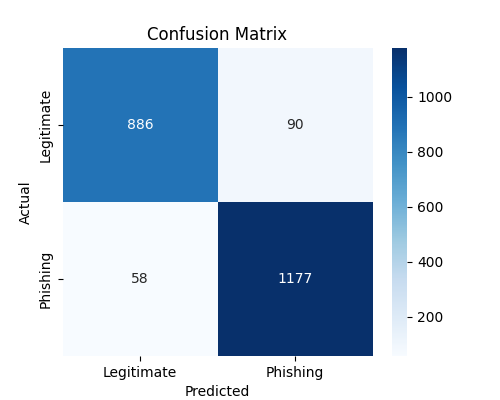
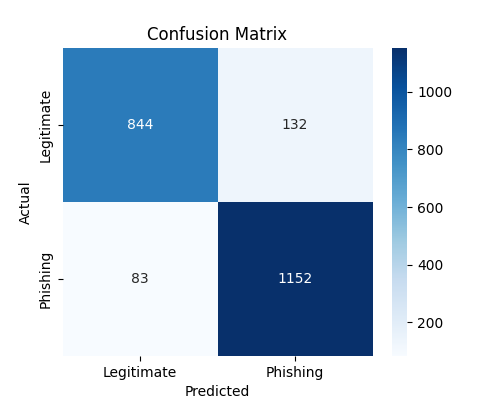
Final working phishing URL detector with Streamlit UI and confidence score

diff --git a/src/detector.py b/src/detector.py
@@ -4,7 +4,15 @@ import pandas as pd
 data = pd.read_csv("data/phishing.csv")
 
 # Separate features and labels
-X = data.drop("class", axis=1)
+selected_features = [
+    "UsingIP",
+    "LongURL",
+    "Symbol@",
+    "PrefixSuffix-",
+    "HTTPS"
+]
+
+X = data[selected_features]
 y = data["class"]
 
 # Show dataset info
@@ -30,14 +38,11 @@ print("Testing samples:", X_test.shape[0])
 import os
 import joblib
 
-if os.path.exists("phishing_model.pkl"):
-    model = joblib.load("phishing_model.pkl")
-    print("Loaded saved model!")
-else:
-    model = LogisticRegression(max_iter=1000)
-    model.fit(X_train, y_train)
-    joblib.dump(model, "phishing_model.pkl")
-    print("Model trained and saved!")
+model = LogisticRegression(max_iter=1000)
+model.fit(X_train, y_train)
+joblib.dump(model, "phishing_model.pkl")
+
+print("Model retrained and saved!")
 
 
 
@@ -147,35 +152,8 @@ def extract_basic_features(url):
     # HTTPS usage
     features["HTTPS"] = 1 if parsed.scheme == "https" else -1
 
-    # Suspicious keywords
-    suspicious_keywords = ["login", "secure", "account", "verify", "update"]
-    features["RequestURL"] = 1 if any(word in url.lower() for word in suspicious_keywords) else -1
-
-    # URL shorteners
-    shorteners = ["bit.ly", "tinyurl.com", "goo.gl"]
-    features["ShortURL"] = 1 if any(service in url.lower() for service in shorteners) else -1
+    
 
     return features
-# Command-line URL prediction (prototype)
-if len(sys.argv) > 1:
-    print("\nChecking URL:", sys.argv[1])
-
-    url = sys.argv[1]
-
-features = extract_basic_features(url)
-
-sample_df = pd.DataFrame([features])
-
-# Fill missing columns with default value (-1)
-for col in X.columns:
-    if col not in sample_df:
-        sample_df[col] = -1
-
-sample_df = sample_df[X.columns]
-
-prediction = model.predict(sample_df)
-
-if prediction[0] == -1:
-    print("⚠ Phishing website detected")
-else:
-    print("✅ Legitimate website")
+print("\nTop 10 phishing indicators:\n")
+print(feature_importance.head(10))

diff --git a/src/app.py b/src/app.py
@@ -1,0 +1,58 @@
+import streamlit as st
+import joblib
+import pandas as pd
+from urllib.parse import urlparse
+import re
+
+# Load trained model
+model = joblib.load("phishing_model.pkl")
+
+st.title("🔐 AI Phishing URL Detector")
+
+st.write("Enter a website URL to check whether it is phishing or legitimate.")
+
+# Feature extractor
+def extract_basic_features(url):
+    features = {}
+
+    parsed = urlparse(url)
+    domain = parsed.netloc
+
+    features["UsingIP"] = 1 if re.match(r"^\d+\.\d+\.\d+\.\d+", domain) else -1
+    features["LongURL"] = 1 if len(url) > 75 else -1
+    features["Symbol@"] = 1 if "@" in url else -1
+    features["PrefixSuffix-"] = 1 if "-" in domain else -1
+    features["HTTPS"] = 1 if parsed.scheme == "https" else -1
+
+    return features
+
+
+url = st.text_input("Enter URL here:")
+
+if url:
+
+    features = extract_basic_features(url)
+
+    expected_features = [
+        "UsingIP",
+        "LongURL",
+        "Symbol@",
+        "PrefixSuffix-",
+        "HTTPS"
+    ]
+
+    sample_df = pd.DataFrame(
+        [[features[f] for f in expected_features]],
+        columns=expected_features
+    )
+
+    prediction = model.predict(sample_df)[0]
+    confidence = model.predict_proba(sample_df)[0].max()
+
+    if prediction == -1:
+        st.error("⚠ Phishing Website Detected")
+    else:
+        st.success("✅ Legitimate Website")
+
+    
+    st.write(f"Confidence: {confidence:.2f}")
